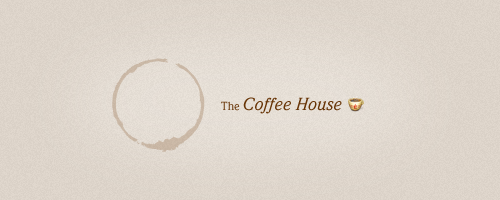
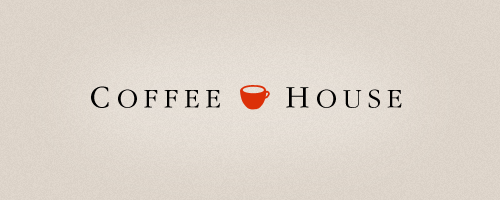
improved stylesheet, new header, language.xml file input styled

Changed region(s): [[0.18, 0.39, 0.81, 0.75], [0.24, 0.27, 0.36, 0.42], [0.36, 0.33, 0.39, 0.39]]

diff --git a/style/main.css b/style/main.css
@@ -1,4 +1,7 @@
-/* @override http://www.fileability.net/coffeehouse/style/main.css */
+/* @override 
+	http://www.fileability.net/coffeehouse/style/main.css
+	http://localhost/~david/coffee-house/style/main.css
+*/
 
 /*
 
@@ -227,6 +230,7 @@ input, textarea {
 }
 
 input[type=text],
+input[type=password],
 textarea {
 	background: rgba(169,162,156,0.2);
 	-webkit-border-radius: 2px;
@@ -234,8 +238,19 @@ textarea {
 	border: 1px solid rgba(169,162,156,0.5);
 }
 
+input[type=file] {
+	width: 245px;
+	height: 32px;
+	background: #fff;
+	position: absolute;
+	opacity: 0;
+	cursor: pointer;
+}
+
 input[type=text].half {width: 227px;}
 input[type=text].full {width: 482px;}
+input[type=password].half {width: 227px;}
+input[type=password].full {width: 482px;}
 
 textarea.half {width: 227px; max-width: 227px;}
 textarea.full {width: 482px; max-width: 482px;}

diff --git a/js/core.js b/js/core.js
@@ -1,6 +1,7 @@
 window.addEvent('domready',function(){
 
 	var searchField = $$('#search_field');
+	var fileInput = $$('#file_input');
 	
 	var Search = new Request({
 		url: 'index.php/ajax/search/',
@@ -12,6 +13,11 @@ window.addEvent('domready',function(){
 	searchField.addEvent('keyup', function(el){
 		var term = searchField.get('value');
 		Search.send('term='+term);
+	});
+	
+	fileInput.addEvent('change', function(el){
+		var file = fileInput.get('value');
+		$$('.fake').set('value', file);
 	});
 
 });

diff --git a/application/views/header.php b/application/views/header.php
@@ -1,12 +1,13 @@
+<?php $path = ($_SERVER['SERVER_NAME'] == 'localhost') ? 'http://localhost/~david/coffee-house/': base_url(); ?>
 <!DOCTYPE html PUBLIC "-//W3C//DTD XHTML 1.0 Transitional//EN"
 	"http://www.w3.org/TR/xhtml1/DTD/xhtml1-transitional.dtd">
 <html xmlns="http://www.w3.org/1999/xhtml" xml:lang="en">
 <head>
 	<title>SugarStore</title>
-	<link rel="stylesheet" href="<?=base_url()?>style/main.css" type="text/css" media="screen" />
+	<link rel="stylesheet" href="<?=$path?>style/main.css" type="text/css" media="screen" />
 	<meta http-equiv="Content-Type" content="text/html; charset=UTF-8" />
-	<script type="text/javascript" src="js/mootools-1.2.1-core.js"></script>
-	<script type="text/javascript" src="js/core.js"></script>
+	<script type="text/javascript" src="<?=$path?>js/mootools-1.2.1-core.js"></script>
+	<script type="text/javascript" src="<?=$path?>js/core.js"></script>
 </head>
 <body>
 

diff --git a/application/config/routes.php b/application/config/routes.php
@@ -43,13 +43,10 @@
 $route['default_controller'] = "sugarstore";
 $route['scaffolding_trigger'] = "";
 
-$route['sugar/:num'] = "sugarstore/sugar/product_lookup";
+$route['sugar/:any'] = "sugarstore/sugar/product_lookup";
 $route['download/:num'] = "sugarstore/download/product_lookup";
 $route['quickload/:num'] = "sugarstore/quickload/product_lookup";
 $route['about'] = "sugarstore/about";
-$route['search'] = "sugarstore/search";
-$route['search/:any'] = "sugarstore/search/product_lookup";
-/* $route['submit'] = "sugarstore/submit"; */
 $route['dev/:any'] = "sugarstore/dev/product_lookup";
 
 $route['theme/:num'] = "theme/live/product_lookup";

diff --git a/application/views/submit_form.php b/application/views/submit_form.php
@@ -27,7 +27,7 @@
 		<h2 class="half right">Language XML file</h2>
 			<div class="clear"></div>
 		<input type="text" class="half left" name="download_url" value="<?=set_value('download_url')?>" />
-		<div class="half right"><input type="file" name="userfile" /></div>
+		<div class="half right"><input type="file" name="userfile" id="file_input" /><input type="text" class="fake half"/></div>
 			<div class="clear"></div>
 			
 		<hr class="space"/>
